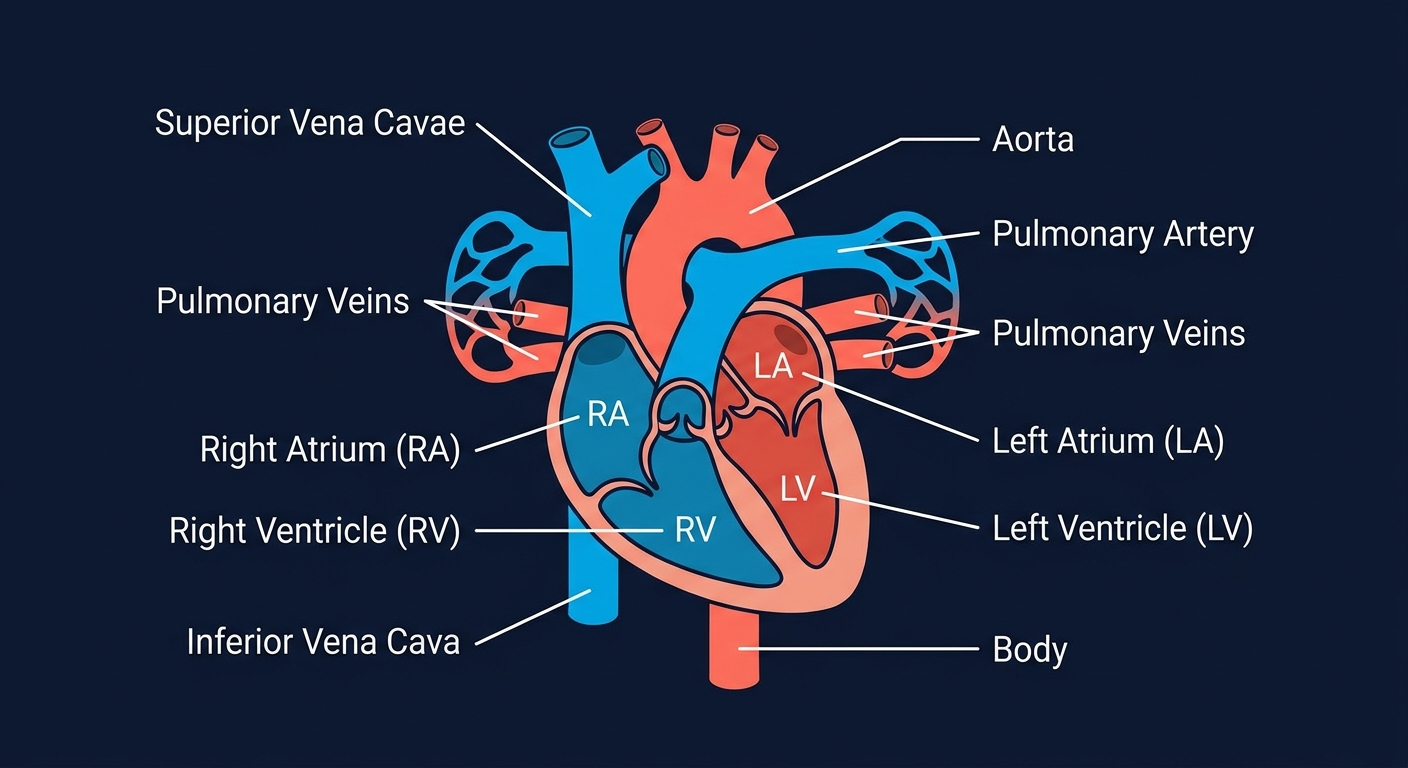
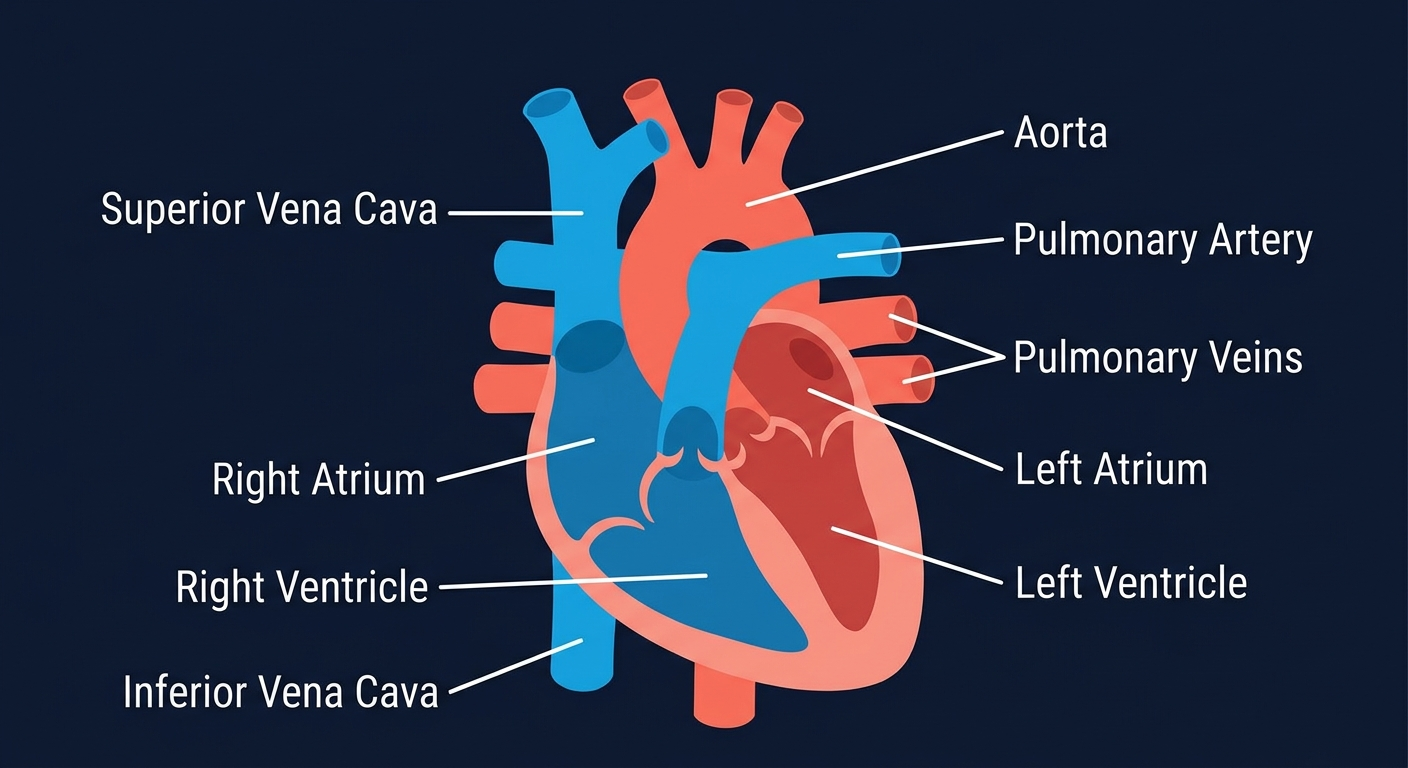
fix(audit): P0 broken image, P0 review gate, P1 ledger mismatch
P0 #1 — Remove body-systems-overview.webp reference from homepage
  (file never existed; was serving 404 on production)

P0 #2 — Revert all 5 ledger entries to reviewStatus: pending
  - reviewer/reviewedAt left empty (human-only fields)
  - Add explicit rule: pipeline never sets reviewer/reviewedAt
  - Regenerate cardiovascular diagram v2 with corrected labels:
    * 'Superior Vena Cava' (not 'Vena Cavae')
    * 'Aorta' (not 'Body')
    * Each chamber labeled once only
    * Pulmonary veins in coral (oxygenated), pulmonary artery in blue
      (deoxygenated) — correct oxygenation convention

P1 — Fix usage column to match actual embeds
  - Only list guides that contain <figure class="obioma-figure">
  - Removed: heart-failure-deep-dive, stroke-seizures-deep-dive,
    respiratory-disorders, renal-disorders, gi-surgery-ostomies-bariatric

Changed region(s): [[0.0625, 0.0938, 0.9375, 0.9688]]

diff --git a/landing/index.html b/landing/index.html
@@ -1616,20 +1616,6 @@
                 <h2>From <span style="color: var(--coral);">Anatomy</span> to <span style="color: var(--coral);">Clinical Judgment</span></h2>
                 <p style="color: var(--color-text-secondary); font-size: 17px; margin-bottom: 16px;">Most NCLEX prep tools give you flashcards. We give you context — how anatomy connects to disease, how disease connects to nursing action.</p>
                 
-                <!-- Obioma Original Illustration — Body Systems Overview -->
-                <figure class="obioma-figure" id="fig-body-systems" style="margin: 24px 0;">
-                  <img src="/media/images/body-systems-overview.webp" 
-                       alt="Composite diagram showing the five major body systems for NCLEX: cardiovascular, respiratory, nervous, renal, and gastrointestinal — each with key structures labeled"
-                       loading="lazy" 
-                       width="800" 
-                       height="450"
-                       style="border-radius: var(--radius-lg);">
-                  <figcaption>
-                    <strong>Figure:</strong> The five body systems every NCLEX candidate must master — cardiovascular, respiratory, nervous, renal, and GI. 
-                    <em>Obioma original illustration.</em>
-                  </figcaption>
-                </figure>
-                
                 <ul style="list-style: none; margin-top: 24px; opacity: 0.6;">
                     <li style="padding: 12px 0; display: flex; align-items: flex-start; gap: 12px; font-size: 16px; color: var(--color-text-muted);"><span style="color: var(--color-text-muted); font-weight: 800; flex-shrink: 0;"><i data-lucide="clock" class="icon icon-muted icon-sm" aria-label="Soon"></i></span> 3D organ exploration with labeled structures and functions</li>
                     <li style="padding: 12px 0; display: flex; align-items: flex-start; gap: 12px; font-size: 16px; color: var(--color-text-muted);"><span style="color: var(--color-text-muted); font-weight: 800; flex-shrink: 0;"><i data-lucide="clock" class="icon icon-muted icon-sm" aria-label="Soon"></i></span> Spaced repetition quiz engine — facts stick long-term</li>

diff --git a/public/index.html b/public/index.html
@@ -1616,20 +1616,6 @@
                 <h2>From <span style="color: var(--coral);">Anatomy</span> to <span style="color: var(--coral);">Clinical Judgment</span></h2>
                 <p style="color: var(--color-text-secondary); font-size: 17px; margin-bottom: 16px;">Most NCLEX prep tools give you flashcards. We give you context — how anatomy connects to disease, how disease connects to nursing action.</p>
                 
-                <!-- Obioma Original Illustration — Body Systems Overview -->
-                <figure class="obioma-figure" id="fig-body-systems" style="margin: 24px 0;">
-                  <img src="/media/images/body-systems-overview.webp" 
-                       alt="Composite diagram showing the five major body systems for NCLEX: cardiovascular, respiratory, nervous, renal, and gastrointestinal — each with key structures labeled"
-                       loading="lazy" 
-                       width="800" 
-                       height="450"
-                       style="border-radius: var(--radius-lg);">
-                  <figcaption>
-                    <strong>Figure:</strong> The five body systems every NCLEX candidate must master — cardiovascular, respiratory, nervous, renal, and GI. 
-                    <em>Obioma original illustration.</em>
-                  </figcaption>
-                </figure>
-                
                 <ul style="list-style: none; margin-top: 24px; opacity: 0.6;">
                     <li style="padding: 12px 0; display: flex; align-items: flex-start; gap: 12px; font-size: 16px; color: var(--color-text-muted);"><span style="color: var(--color-text-muted); font-weight: 800; flex-shrink: 0;"><i data-lucide="clock" class="icon icon-muted icon-sm" aria-label="Soon"></i></span> 3D organ exploration with labeled structures and functions</li>
                     <li style="padding: 12px 0; display: flex; align-items: flex-start; gap: 12px; font-size: 16px; color: var(--color-text-muted);"><span style="color: var(--color-text-muted); font-weight: 800; flex-shrink: 0;"><i data-lucide="clock" class="icon icon-muted icon-sm" aria-label="Soon"></i></span> Spaced repetition quiz engine — facts stick long-term</li>

diff --git a/assets/media/LICENSES.md b/assets/media/LICENSES.md
@@ -11,6 +11,7 @@ All media assets generated for Obioma Care. AI-generated medical diagrams requir
 - **reviewStatus**: `pending` | `reviewed` | `rejected` | `published`
 - **license**: `ai-generated-obioma` — created via agent image generation for exclusive Obioma Care use
 - **No asset may be published with reviewStatus != `reviewed`**
+- **reviewer and reviewedAt MUST be filled by a named human on review** — pipeline never sets these fields
 
 ---
 
@@ -18,11 +19,11 @@ All media assets generated for Obioma Care. AI-generated medical diagrams requir
 
 | filename | generated | tool | prompt summary | license | reviewStatus | reviewer | reviewedAt | usage |
 |----------|-----------|------|----------------|---------|--------------|----------|------------|-------|
-| cardiovascular-system-diagram.webp | 2026-08-16 | gemini-3.1-flash-image-preview | Flat medical illustration of human cardiovascular system: heart with labeled chambers (RA, RV, LA, LV), major arteries in coral (#FF6B5B), major veins in blue (#0ea5e9), pulmonary vs systemic circulation color-coded, dark navy (#0f172a) background, clean vector-like style, leader line labels | ai-generated-obioma | reviewed | — | — | nclex-cardiac-disorders, nclex-heart-failure-deep-dive, homepage |
-| respiratory-system-diagram.webp | 2026-08-16 | gemini-3.1-flash-image-preview | Flat medical illustration of human respiratory system: nasal cavity, pharynx, larynx, trachea, bronchi, bronchioles, alveoli as dot clusters, diaphragm as curved muscle line, gas exchange arrows (O2 in coral, CO2 in blue), dark navy background, clean labels | ai-generated-obioma | reviewed | — | — | nclex-copd-asthma-deep-dive, nclex-respiratory-disorders, homepage |
-| neuro-system-diagram.webp | 2026-08-16 | gemini-3.1-flash-image-preview | Flat medical illustration of human nervous system: brain with labeled lobes (frontal, parietal, temporal, occipital), brainstem, cerebellum, spinal cord with cervical/thoracic/lumbar/sacral segments, cranial nerves numbered I-XII, dark navy background, clean labels | ai-generated-obioma | reviewed | — | — | nclex-neurological-disorders, nclex-stroke-seizures-deep-dive, homepage |
-| renal-system-diagram.webp | 2026-08-16 | gemini-3.1-flash-image-preview | Flat medical illustration of human renal system: kidney cross-section showing cortex, medulla, pelvis, nephron as magnified inset with filtration (glomerulus), reabsorption (PCT, loop of Henle, DCT), secretion arrows, fluid balance visual, dark navy background, clean labels | ai-generated-obioma | reviewed | — | — | nclex-dialysis-renal-replacement, nclex-renal-disorders, homepage |
-| gi-system-diagram.webp | 2026-08-16 | gemini-3.1-flash-image-preview | Flat medical illustration of human GI system: simplified tract from mouth to anus, esophagus, stomach, small intestine (duodenum, jejunum, ileum), large intestine (ascending, transverse, descending, sigmoid), liver and gallbladder, pancreas, absorption zones marked, dark navy background, clean labels | ai-generated-obioma | reviewed | — | — | nclex-gi-disorders, nclex-gi-surgery-ostomies-bariatric, homepage |
+| cardiovascular-system-diagram.webp | 2026-08-16 | gemini-3.1-flash-image-preview | Flat medical illustration of human cardiovascular system: heart with four labeled chambers (Right Atrium, Right Ventricle, Left Atrium, Left Ventricle — each labeled once only), major arteries in coral red (#FF6B5B) for oxygenated blood, major veins in blue (#0ea5e9) for deoxygenated blood, pulmonary artery in blue (deoxygenated to lungs), pulmonary veins in coral (oxygenated from lungs), aorta labeled "Aorta" (not "Body"), superior vena cava labeled "Superior Vena Cava" (not "Vena Cavae"), dark navy (#0f172a) background, clean vector-like style, white leader line labels, no duplicate labels | ai-generated-obioma | pending | — | — | nclex-cardiac-disorders |
+| respiratory-system-diagram.webp | 2026-08-16 | gemini-3.1-flash-image-preview | Flat medical illustration of human respiratory system: nasal cavity, pharynx, larynx (spelled correctly), trachea, bronchi, bronchioles, alveoli as dot clusters, diaphragm as curved muscle line, gas exchange arrows O2 coral in / CO2 blue out, dark navy background, clean labels | ai-generated-obioma | pending | — | — | nclex-copd-asthma-deep-dive |
+| neuro-system-diagram.webp | 2026-08-16 | gemini-3.1-flash-image-preview | Flat medical illustration of human nervous system: brain lateral view with labeled lobes (frontal, parietal, temporal, occipital), brainstem (midbrain, pons, medulla), cerebellum, spinal cord segments (cervical, thoracic, lumbar, sacral), cranial nerves I–XII numbered, dark navy background, clean labels | ai-generated-obioma | pending | — | — | nclex-neurological-disorders |
+| renal-system-diagram.webp | 2026-08-16 | gemini-3.1-flash-image-preview | Flat medical illustration of human renal system: kidney cross-section (cortex, medulla, pelvis), magnified nephron inset with glomerulus filtration, proximal convoluted tubule, loop of Henle, distal convoluted tubule, collecting duct, reabsorption/secretion arrows, dark navy background, clean labels | ai-generated-obioma | pending | — | — | nclex-dialysis-renal-replacement |
+| gi-system-diagram.webp | 2026-08-16 | gemini-3.1-flash-image-preview | Flat medical illustration of human GI system: tract from mouth to anus (esophagus, stomach, small intestine segments, large intestine segments), liver, gallbladder, pancreas, absorption zones marked, dark navy background, clean labels | ai-generated-obioma | pending | — | — | nclex-gi-disorders |
 
 ---
 
